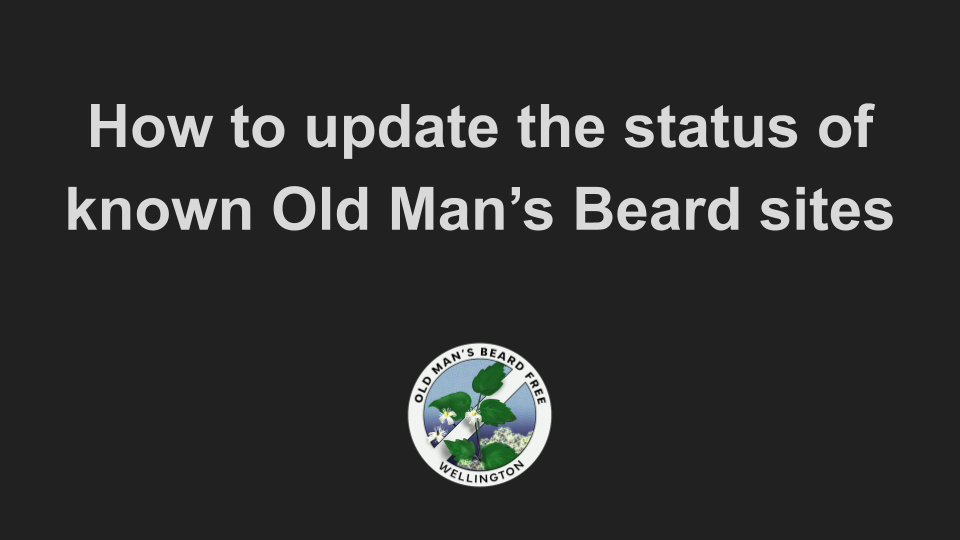
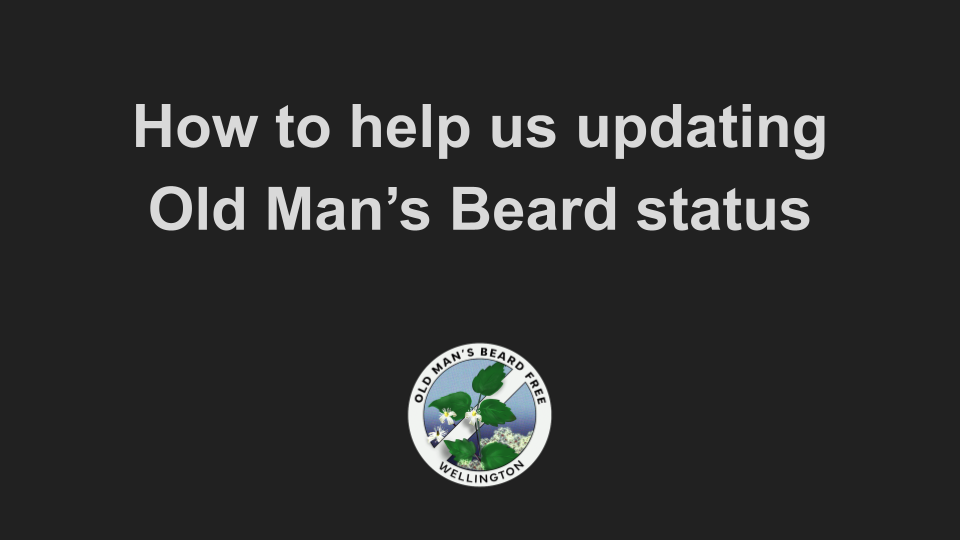
Remove Nigel video

Changed region(s): [[0.0625, 0.3259, 0.9375, 0.4444], [0.0938, 0.1778, 0.9062, 0.2963]]

diff --git a/script/source.md b/script/source.md
@@ -7,16 +7,40 @@ theme: light
 subtitles: embed
 voice: brooke
 ---
-
 ![](Title Slide.png)
 
 (pause: 4)
 
+<!-- ---
+![](Title Slide.png)
+
+(voice-speed: fast)
+Keya ora!
+
+> Kia ora!
+
+(voice-speed: normal) -->
+
 ---
+![](CAMS Weed App.png)
+
+Hi! On our mission to make Wellington Old Man's Beard Free, we've created a map to manage and track our efforts to control Old Man's Beard.
+
+This map is colour coded to show which patches need control; which have been controlled; and which need checking. 
+
+The weed status is reset to "Purple - Please Check" each Spring, so that we check for any regrowth or seedlings.
+
+With over 3,000 reported Old Man's Beard patches, we can't check them all.
+
+We'd love your help to check some of them and update this map. 
+
+This video shows you how to find these patches and update their status.
+
+<!-- ---
 
 (video:
   file: Intro.mov
-  volume: 2.0)
+  volume: 2.0) -->
 
 ---
 
@@ -24,7 +48,7 @@ voice: brooke
 [cams.econet.nz/weed-app-device-public](https://cams.econet.nz/weed-app-device-public)
 ```
 
-Hi, the first thing you need to do is install our map on your mobile device by opening the URL displayed above. 
+The first thing you need to do is install our map on your mobile device by opening the URL displayed above. 
 
 You can also find this URL in the description below.
 
@@ -35,7 +59,7 @@ Opening the URL will prompt you to install an application called Field Maps if y
 
 You'll notice a lot of different coloured markers on the map. 
 
-Each marker represents a weed patch and is coloured to show the current status of the patch. 
+Each marker represents a weed patch and is coloured to show the current known status of the patch. 
 
 ---
 (narration-mode: fragment)
@@ -320,7 +344,7 @@ Also check you have clicked the Add button next to each modified field.
 )
 Checking this map, we see this dot has turned to "Red" to show there is active growth.
 
-This might seem like a lot of work to start with, but it quickly becomes second nature.
+Updating the status might seem like a lot of work to start with, but it quickly becomes second nature.
 
 In time, we hope to develop an app to make this easier.
 
@@ -333,10 +357,15 @@ We hope this video has been useful and you will help us update the status of our
 
 This will help us prioritise our work towards an Old Man's Beard Free Wellington.
 
+---
+```md
+[kiaora@ombfree.nz](mailto:kiaora@ombfree.nz)
+```
+
 Please email us questions or feedback at kiaora@`omb`free.nz.
 
-Thanks a lot!
+> Please email us questions or feedback at kiaora@ombfree.nz.
 
+Thanks!
 
-
-
+> Thanks!
